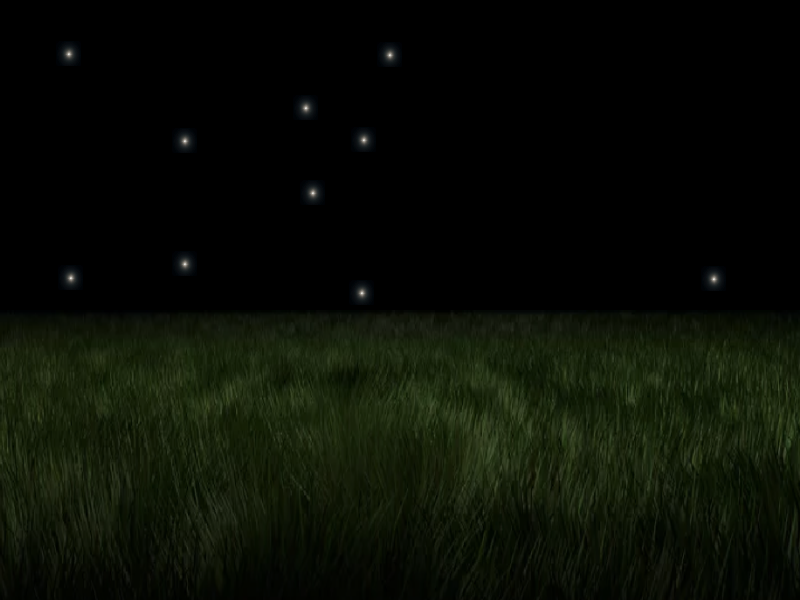
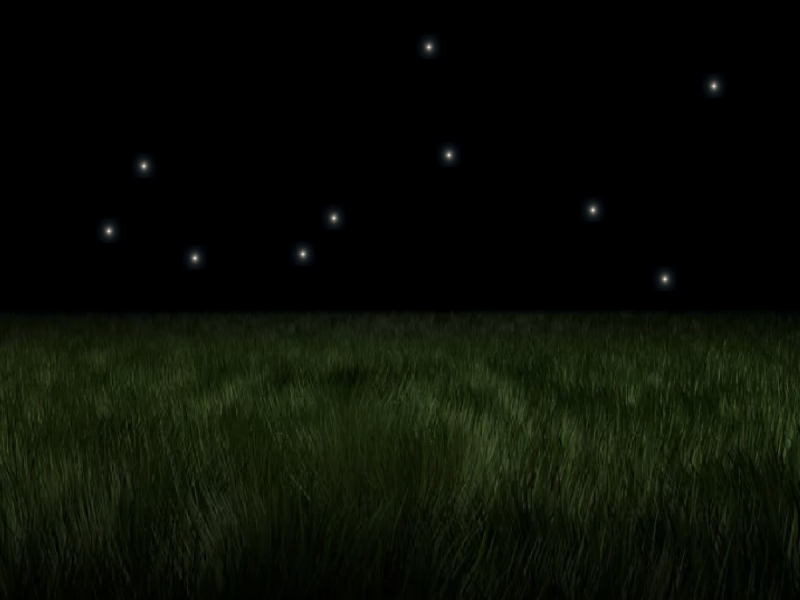
fixes

diff --git a/src/templates/clientSimulation.html b/src/templates/clientSimulation.html
@@ -16,7 +16,7 @@
             <a href="index.html" class="logo">SkyView</a>
             <nav id="nav">
                 <a  href="{{ url_for('home') }}">Home</a>
-                <a href="generic.html">Generic</a>
+                 <a href="{{ url_for('home') }}#three">Explore</a>
                 <a href="{{ url_for('open_resources') }}">Resources</a>
             </nav>
             <a href="#navPanel" class="navPanelToggle"><span class="fa fa-bars"></span></a>
@@ -36,7 +36,7 @@
     <section id="one" class="wrapper">
         <div class="inner">
             <header>
-                <h3>Custom Simulation</h3>
+                <h3>Custom Simulation </h3>
             </header>
             <div class="flex-container">
                 <img src="../static/images/simulationAbove.png" alt="Sky Map Sample">
@@ -44,7 +44,12 @@
                     <p>Experience the solar system as you define it with this interactive simulation tool. Designed to visualize the movements of planets based on parameters you initialize, this model allows for a unique exploration that may not strictly adhere to real-world data. Each planet's trajectory, influenced by your values for mass, speed, and orbit, offers a personalized and insightful look into celestial mechanics. Enhance your viewing experience by using the left and right arrow keys to zoom out and in, respectively. Additionally, the simulation's time step (dt) is set to one day, but you can adjust the speed of the simulation—making it faster or slower—by using the up and down arrow keys. This feature offers flexibility in observing the dynamic interactions at various speeds. It's an excellent resource for teachers, students, and anyone interested in astronomy, offering a clear view of the gravitational forces at play and the paths planets follow. Use this tool to deepen your understanding of our solar system, whether for education or personal interest.</p>
                     <footer>
                         <a href="#" class="button special" onclick="start1()">Start Simulator</a>
+                         <div class="tooltip">
                         <a class="button special">?</a>
+                            <span class="tooltip-text">
+                                To begin viewing the simulation, click the "Start Simulation" button. This will launch the simulation in a separate Pygame window. You can zoom in or out by using the left and right arrow keys and slow the movement by the up and down arrow keys. Please note that there might be a brief loading time as the simulation initializes. To see the results for the real images click on compare results.
+                            </span>
+                            </div>
                     </footer>
                 </div>
             </div>
@@ -55,18 +60,18 @@
     <section id="two" class="wrapper">
         <div class="inner">
             <header>
-                <h3>Planet Simulator<br> Simulate planetary orbits</h3>
+                <h3>Custom Simulator<br>Earth POV</h3>
             </header>
             <div class="flex-container">
-                <img src="../static/images/planet-simulator-sample.jpg" alt="Planet Simulator Sample">
+                <img src="../static/images/pov.png" alt="Planet Simulator Sample">
                 <div class="text-content">
-                    <p>Simulate and visualize the orbital mechanics of planets in our solar system with adjustable parameters.</p>
+                    <p>This simulation provides a unique perspective from Earth, specifically positioned at a point in Karmiel, Israel. Oriented at 0 degrees, it offers a direct view along the horizon. See the planets you chose as part of your personalized setup, allowing for the observation of their celestial movements and alignments from this specific location. This tailored experience enhances your understanding of how these planets appear in relation to Karmiel's geographic and celestial coordinates.</p>
                     <footer>
-                        <a href="#" class="button special" onclick="start_simulation_client()">Start Simulator</a>
+                        <a href="#" class="button special" onclick="start2()">Start Simulator</a>
                         <div class="tooltip">
                         <a class="button special">?</a>
                             <span class="tooltip-text">
-                                explain
+                                To begin viewing the simulation, click the "Start Simulation" button. This will launch the simulation in a separate Pygame window. Please note that there might be a brief loading time as the simulation initializes.
                             </span>
                             </div>
                     </footer>

diff --git a/src/templates/simulationModel.html b/src/templates/simulationModel.html
@@ -16,7 +16,7 @@
             <a href="index.html" class="logo">SkyView</a>
             <nav id="nav">
                 <a  href="{{ url_for('home') }}">Home</a>
-                <a href="generic.html">Generic</a>
+                <a href="{{ url_for('home') }}#three">Explore</a>
                 <a href="{{ url_for('open_resources') }}">Resources</a>
             </nav>
             <a href="#navPanel" class="navPanelToggle"><span class="fa fa-bars"></span></a>
@@ -40,7 +40,12 @@
                     <p>Experience our solar system in motion with this simulation tool, designed to show the accurate movements of planets from a unique overhead view. This simulation uses real-life data on each planet's mass, speed, and orbit, providing a detailed and professional look at how they interact. Enhance your viewing experience by using the left and right arrow keys to zoom out and in, respectively. Additionally, the simulation's time step (dt) is set to one day, but you can adjust the speed of the simulation—making it faster or slower—by using the up and down arrow keys. This feature offers flexibility in observing the dynamic interactions at various speeds. It's an excellent resource for teachers, students, and anyone interested in astronomy, offering a clear view of the gravitational forces at play and the paths planets follow. Use this tool to deepen your understanding of our solar system, whether for education or personal interest.</p>
                     <footer>
                         <a href="#" class="button special" onclick="startSimulation()">Start Simulator</a>
+                         <div class="tooltip">
                         <a class="button special">?</a>
+                            <span class="tooltip-text">
+                                To begin viewing the simulation, click the "Start Simulation" button. This will launch the simulation in a separate Pygame window. You can zoom in or out by using the left and right arrow keys and slow the movement by the up and down arrow keys. Please note that there might be a brief loading time as the simulation initializes.
+                            </span>
+                            </div>
                     </footer>
                 </div>
             </div>
@@ -59,7 +64,12 @@
                     <p>Explore the fascinating dynamics of the moon with our Moon Simulator. This tool generates simulated images of the moon as it traverses the night sky, with each frame representing an hourly progression. By observing the moon's movement across these frames, we use the simulated images to refine our algorithm, which calculates the velocity and position of the moon. Designed for both educational and development purposes, this simulation provides a vivid visual understanding of lunar motion. Click on this simulation to witness the moon’s real-time movement from an Earth point of view, looking toward the horizon where the sky meets the ground. Ideal for enthusiasts and developers alike, this tool brings the intricacies of celestial mechanics right to your fingertips.</p>
                     <footer>
                         <a href="#" class="button special" onclick="startSimulation2()">Start Simulator</a>
+                         <div class="tooltip">
                         <a class="button special">?</a>
+                            <span class="tooltip-text">
+                                To begin viewing the simulation, click the "Start Simulation" button. This will launch the simulation in a separate Pygame window. Please note that there might be a brief loading time as the simulation initializes.
+                            </span>
+                            </div>
                     </footer>
                 </div>
             </div>

diff --git a/src/templates/buildModel1.html b/src/templates/buildModel1.html
@@ -24,17 +24,16 @@
             <span></span>
             <div class="navbar">
 
-                <a href="design.html">Home</a>
-                <a href="#">Menu1</a>
-                <a href="#">Menu2</a>
-                <a href="#">Menu3</a>
+                <a href="{{ url_for('home') }}">Home</a>
+                <a href="{{ url_for('home') }}#three">Explore</a>
+                <a href="{{ url_for('open_resources') }}">Resources</a>
             </div>
             
         </button>
     </div>
 
 
-    <body>
+
         <div class="title">
           Model Definition
         </div>
@@ -136,10 +135,16 @@
          <a href="{{ url_for('home') }}">
     <button type="button" class="btn-back">&larr; Back</button>
         </a>
-        <button class="help-button">?</button>
+        <div class="tooltip3">
+    <button class="help-button">?</button>
+    <span class="tooltip-text3">
+       Begin by selecting whether to add a 'Planet' or a 'Star'. For a known planet, type its name to auto-populate its original values, which you can edit as needed. After adjusting the parameters, click the 'Add' button to include it in the simulation. To add an unknown planet, choose this option for a unique appearance. To remove an object, click the 'X' button at the top right of the planet box. Once all objects are in place, click 'Simulate Model' to start the simulation, and then 'Continue' to view the simulation on the next page.
+    </span>
+</div>
 
-        </body>
-    
+
     </body>
+    
+
 
     </html>

diff --git a/src/templates/uploadImages1.html b/src/templates/uploadImages1.html
@@ -16,10 +16,9 @@
             <span></span>
             <span></span>
             <div class="navbar">
-                <a href="{{ url_for('home') }}">Home</a>
-                <a href="#">Menu1</a>
-                <a href="#">Menu2</a>
-                <a href="#">Menu3</a>
+               <a href="{{ url_for('home') }}">Home</a>
+                <a href="{{ url_for('home') }}#three">Explore</a>
+                <a href="{{ url_for('open_resources') }}">Resources</a>
             </div>
 
         </button>
@@ -49,12 +48,17 @@
 
       </div>
 
-      <button class="help-button">?</button>
-    <a href="{{ url_for('open_compare') }}" class="btn-link">
+
+    <a href="{{ url_for('home') }}" class="btn-link">
       <button type="button" id="addButton" class="btn-main">Continue</button>
     </a>
 
-
+     <div class="tooltip">
+    <button class="help-button">?</button>
+    <span class="tooltip-text">
+        To upload images, click the 'Choose File' button and select the images you wish to add. Ensure that the images are in sequential order and are of the types 'png', 'jpg', 'jpeg', or 'gif'. After selecting your images, click 'Continue' to return to the home page. From there, navigate to the 'Build Model' section to view the results of your calculations.
+    </span>
+</div>
 
       <a href="{{ url_for('home') }}">
     <button type="button" class="btn-back">&larr; Back</button>

diff --git a/src/templates/compareParameters.html b/src/templates/compareParameters.html
@@ -23,10 +23,9 @@
             <span></span>
             <span></span>
             <div class="navbar">
-                <a href="{{ url_for('home') }}">Home</a>
-                <a href="#">Menu1</a>
-                <a href="#">Menu2</a>
-                <a href="#">Menu3</a>
+               <a href="{{ url_for('home') }}">Home</a>
+                <a href="{{ url_for('home') }}#three">Explore</a>
+                <a href="{{ url_for('open_resources') }}">Resources</a>
             </div>
 
 
@@ -63,13 +62,23 @@
 
         <button  type="button" class ="btn-main" onclick="calculate_results()" style="margin-left: 44%; margin-top: 53%; width: 170px;">Calculate Results</button>
 
+
+
         </div>
 
+         <div class="tooltip2">
+            <button class="help-button">?</button>
+            <span class="tooltip-text2">
+                Click on 'Calculate Results' to view the outcomes, including the estimates of the object's location in the next frame and its velocity in the uploaded images. To return to the home page at any time, click the 'Home' button located at the top right of the screen.
+            </span>
+        </div>
 
-        <button class="help-button">?</button>
         <a href="index.html">
             <button type="button" id="addButton" class="btn-back">&larr; </button>
+
         </a>
+
+
 
         </body>
 

diff --git a/src/static/assets/css/buildModel1.css b/src/static/assets/css/buildModel1.css
@@ -203,3 +203,27 @@
 .link-no-underline {
     text-decoration: none; /* Removes the underline */
 }
+
+.tooltip3 {
+  position: relative;
+  display: inline-block;
+}
+
+.tooltip3 .tooltip-text3 {
+  visibility: hidden;
+  width: 400px;
+  background-color: black;
+  color: #fff;
+  font-size: 15px;
+  text-align: center;
+  border-radius: 6px;
+  padding: 5px;
+  position: absolute;
+  z-index: 3;
+  margin-top: -130px;
+  margin-left: 850px;
+}
+
+.tooltip3:hover .tooltip-text3 {
+  visibility: visible;
+}

diff --git a/src/static/assets/css/compareParameters.css b/src/static/assets/css/compareParameters.css
@@ -99,4 +99,28 @@
   scrollbar-color: #5385c1 ; /* thumb and track color */
 }
 
+.tooltip2 {
+  position: relative;
+  display: inline-block;
+}
+
+.tooltip2 .tooltip-text2 {
+  visibility: hidden;
+  width: 400px;
+  background-color: black;
+  color: #fff;
+  font-size: 15px;
+  text-align: center;
+  border-radius: 6px;
+  padding: 5px;
+  position: absolute;
+  z-index: 3;
+  margin-top: 650px;
+  margin-left: 920px;
+}
+
+.tooltip2:hover .tooltip-text2 {
+  visibility: visible;
+}
+
 

diff --git a/src/static/assets/css/uploadImages1.css b/src/static/assets/css/uploadImages1.css
@@ -288,5 +288,30 @@ body {
     text-decoration: none;
 }
 
+.tooltip {
+  position: relative;
+  display: inline-block;
+}
+
+.tooltip .tooltip-text {
+  visibility: hidden;
+  width: 400px;
+  background-color: black;
+  color: #fff;
+  font-size: 15px;
+  text-align: center;
+  border-radius: 6px;
+  padding: 5px;
+  position: absolute;
+  z-index: 3;
+  margin-top: -130px;
+  margin-left: 950px;
+}
+
+.tooltip:hover .tooltip-text {
+  visibility: visible;
+}
+
+
 
 

diff --git a/src/templates/Resources.html b/src/templates/Resources.html
@@ -15,7 +15,7 @@
             <a href="index.html" class="logo">SkyView</a>
             <nav id="nav">
                 <a href="{{ url_for('home') }}">Home</a>
-                <a href="generic.html">Generic</a>
+                <a href="{{ url_for('home') }}#three">Explore</a>
                 <a href="#">Resources</a>
             </nav>
             <a href="#navPanel" class="navPanelToggle"><span class="fa fa-bars"></span></a>

diff --git a/src/static/assets/js/clientSimulation.js b/src/static/assets/js/clientSimulation.js
@@ -4,3 +4,10 @@ function start1() {
     .then(data => alert(data))
     .catch(error => console.error('Error starting simulation:', error));
 }
+
+function start2() {
+    fetch('/buildModelPOV')
+    .then(response => response.text())
+    .then(data => alert(data))
+    .catch(error => console.error('Error starting simulation:', error));
+}

diff --git a/src/static/assets/css/simulationModel.css b/src/static/assets/css/simulationModel.css
@@ -84,7 +84,7 @@ footer .button {
 
 .tooltip .tooltip-text {
   visibility: hidden;
-  width: 140px;
+  width: 400px;
   background-color: black;
   color: #fff;
   font-size: 12px;

diff --git a/src/image_From_Earth_2.py b/src/image_From_Earth_2.py
@@ -54,6 +54,8 @@ star_image = pygame.transform.scale(star_image, (25, 25))  # Scale the image to 
 
 planet_images = {}
 
+known_planets = ["mercury", "venus", "earth", "mars", "jupiter", "saturn", "uranus", "neptune", "sun"]
+
 # Directory to save screenshots
 screenshot_directory = "../simulatedImages2"
 if not os.path.exists(screenshot_directory):
@@ -62,7 +64,6 @@ if not os.path.exists(screenshot_directory):
 
 # Load planet images once, scaling them appropriately
 def load_planet_images():
-    known_planets = ["mercury", "venus", "earth", "mars", "jupiter", "saturn", "uranus", "neptune", "sun"]
     for planet in known_planets:
         image_path = f'static/images/{planet}.webp'
         image = pygame.image.load(image_path)
@@ -98,8 +99,10 @@ def draw_local_sky(observer_position, current_time, planet_list):
             x, y = altaz_to_screen(star_altaz.alt, star_altaz.az)
             WIN.blit(star_image, (x - star_image.get_width() // 2, y - star_image.get_height() // 2))
 
+    filtered_planet_list = [planet for planet in planet_list if planet.name.lower() in known_planets]
+
     with solar_system_ephemeris.set('builtin'):
-        for planet_fromData in planet_list:
+        for planet_fromData in filtered_planet_list:
           #  if planet_fromData.name.lower() == 'moon':
                     planet = get_body(planet_fromData.name, current_time, observer_location)
                     altaz = planet.transform_to(AltAz(obstime=current_time, location=observer_location))
